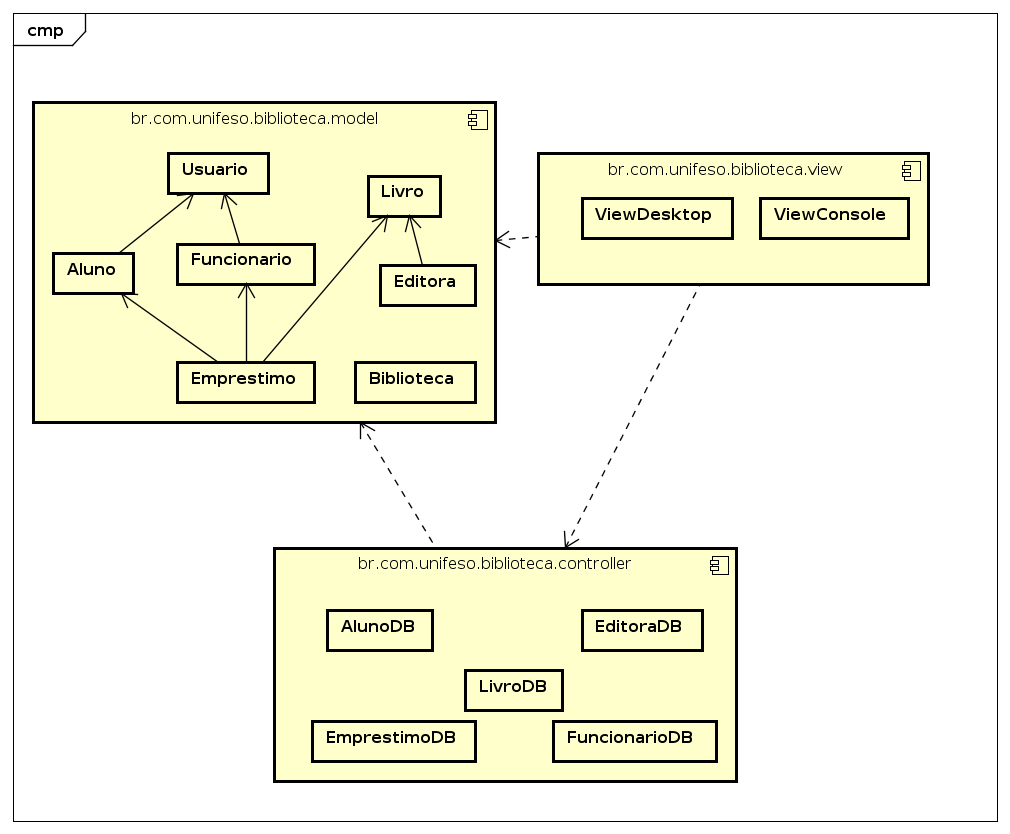
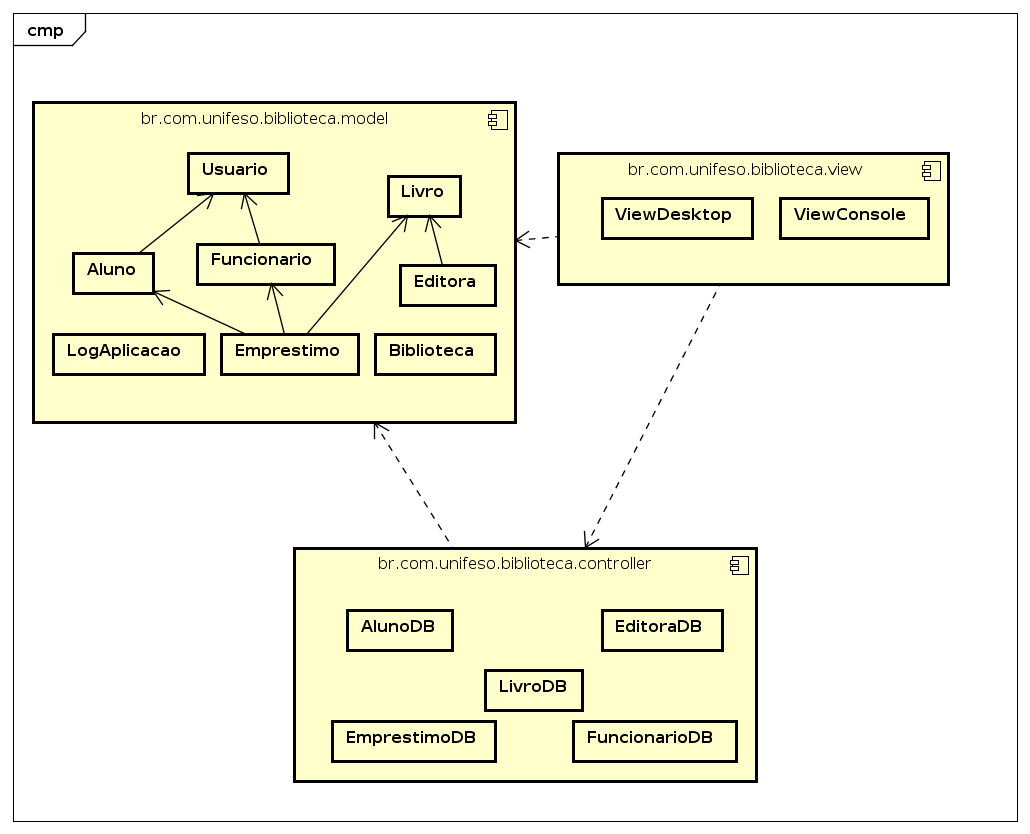
Atualizado o diagrama de componentes

diff --git a/br.com.unifeso.biblioteca/src/br/com/unifeso/biblioteca/controller/EmprestimoDB.java b/br.com.unifeso.biblioteca/src/br/com/unifeso/biblioteca/controller/EmprestimoDB.java
@@ -9,7 +9,7 @@ import java.util.List;
  *
  * @author Gabriel Duarte <gabriellagoa10@yahoo.com.br>
  */
-public class EmprestimoDB {
+public class EmprestimoDB implements LogAplicacao{
     
     private List<Emprestimo> emprestimos;
     
@@ -19,6 +19,7 @@ public class EmprestimoDB {
     
     public void inserirEmprestimo(Emprestimo emprestimo){
         emprestimos.add(emprestimo);
+        gravarLog("Novo empréstimo realizado!");
     }
     
     public List<Emprestimo> retornarTodos(){
@@ -32,5 +33,10 @@ public class EmprestimoDB {
             if(e.getAluno().getMatricula().equals(aluno.getMatricula()))
                 emp.add(e);
         return emp;
+    }
+    
+    @Override
+    public void gravarLog(String log) {
+        System.out.println(log);
     }
 }

diff --git a/br.com.unifeso.biblioteca/src/br/com/unifeso/biblioteca/controller/FuncionarioDB.java b/br.com.unifeso.biblioteca/src/br/com/unifeso/biblioteca/controller/FuncionarioDB.java
@@ -8,7 +8,7 @@ import java.util.List;
  *
  * @author Gabriel Duarte <gabriellagoa10@yahoo.com.br>
  */
-public class FuncionarioDB {
+public class FuncionarioDB implements LogAplicacao{
     
     private List<Funcionario> funcionarios;
     
@@ -18,9 +18,15 @@ public class FuncionarioDB {
     
     public void inserirFuncionario(Funcionario funcionario){
         funcionarios.add(funcionario);
+        gravarLog("Funcionário cadastrado: " + funcionario.getNome());
     }
     
     public List<Funcionario> retornarTodos(){
         return funcionarios;
+    }
+    
+    @Override
+    public void gravarLog(String log) {
+        System.out.println(log);
     }
 }

diff --git a/br.com.unifeso.biblioteca/src/br/com/unifeso/biblioteca/controller/EditoraDB.java b/br.com.unifeso.biblioteca/src/br/com/unifeso/biblioteca/controller/EditoraDB.java
@@ -8,7 +8,7 @@ import java.util.List;
  *
  * @author Gabriel Duarte <gabriellagoa10@yahoo.com.br>
  */
-public class EditoraDB {
+public class EditoraDB implements LogAplicacao{
     
     private List<Editora> editoras;
     
@@ -18,9 +18,15 @@ public class EditoraDB {
     
     public void inserirEditora(Editora editora){
         editoras.add(editora);
+        gravarLog("Editora cadastrada: " + editora.getNome());
     }
     
     public List<Editora> retornarTodas(){
         return editoras;
+    }
+
+    @Override
+    public void gravarLog(String log) {
+        System.out.println(log);
     }
 }

diff --git a/br.com.unifeso.biblioteca/src/br/com/unifeso/biblioteca/controller/AlunoDB.java b/br.com.unifeso.biblioteca/src/br/com/unifeso/biblioteca/controller/AlunoDB.java
@@ -8,7 +8,7 @@ import java.util.List;
  *
  * @author Gabriel Duarte <gabriellagoa10@yahoo.com.br>
  */
-public class AlunoDB {
+public class AlunoDB implements LogAplicacao{
     
     private List<Aluno> alunos;
     
@@ -18,11 +18,18 @@ public class AlunoDB {
     
     public void inserirAluno(Aluno aluno){
         alunos.add(aluno);
+        gravarLog("Aluno inserido - " + aluno.getNome());
     }
     
     public List<Aluno> retornarTodos(){
         return alunos;
     }
+
+    @Override
+    public void gravarLog(String log) {
+        System.out.println(log);
+    }
+    
     
     
 }

diff --git a/br.com.unifeso.biblioteca/src/br/com/unifeso/biblioteca/controller/LivroDB.java b/br.com.unifeso.biblioteca/src/br/com/unifeso/biblioteca/controller/LivroDB.java
@@ -8,7 +8,7 @@ import java.util.List;
  *
  * @author Gabriel Duarte <gabriellagoa10@yahoo.com.br>
  */
-public class LivroDB {
+public class LivroDB implements LogAplicacao{
     
      private List<Livro> livros;
     
@@ -18,9 +18,15 @@ public class LivroDB {
     
     public void inserirLivro(Livro livro){
         livros.add(livro);
+        gravarLog("Novo livro: " + livro.getNome());
     }
     
     public List<Livro> retornarTodos(){
         return livros;
+    }
+    
+    @Override
+    public void gravarLog(String log) {
+        System.out.println(log);
     }
 }

diff --git a/br.com.unifeso.biblioteca/src/br/com/unifeso/biblioteca/controller/LogAplicacao.java b/br.com.unifeso.biblioteca/src/br/com/unifeso/biblioteca/controller/LogAplicacao.java
@@ -1,0 +1,11 @@
+package br.com.unifeso.biblioteca.controller;
+
+/**
+ *
+ * @author Gabriel Duarte <gabriellagoa10@yahoo.com.br>
+ */
+public interface LogAplicacao {
+    
+    void gravarLog(String log);        
+    
+}
